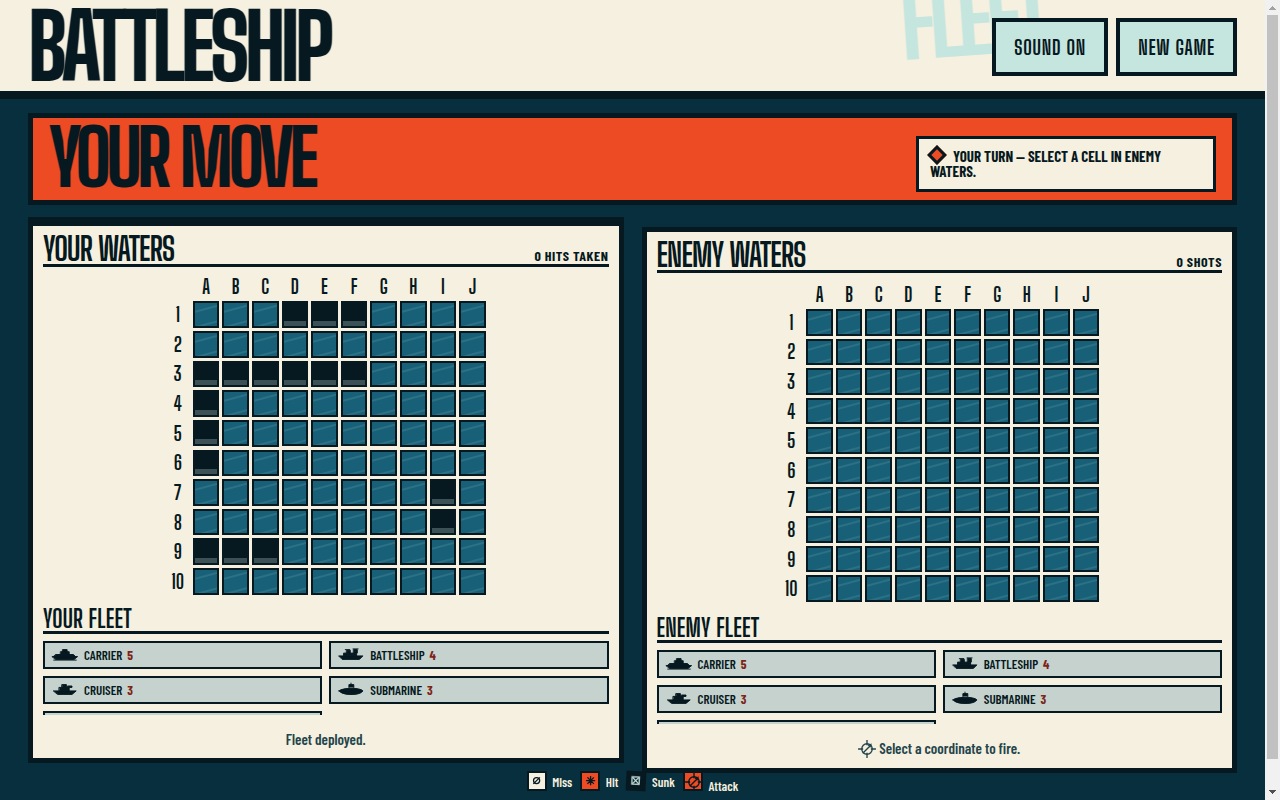
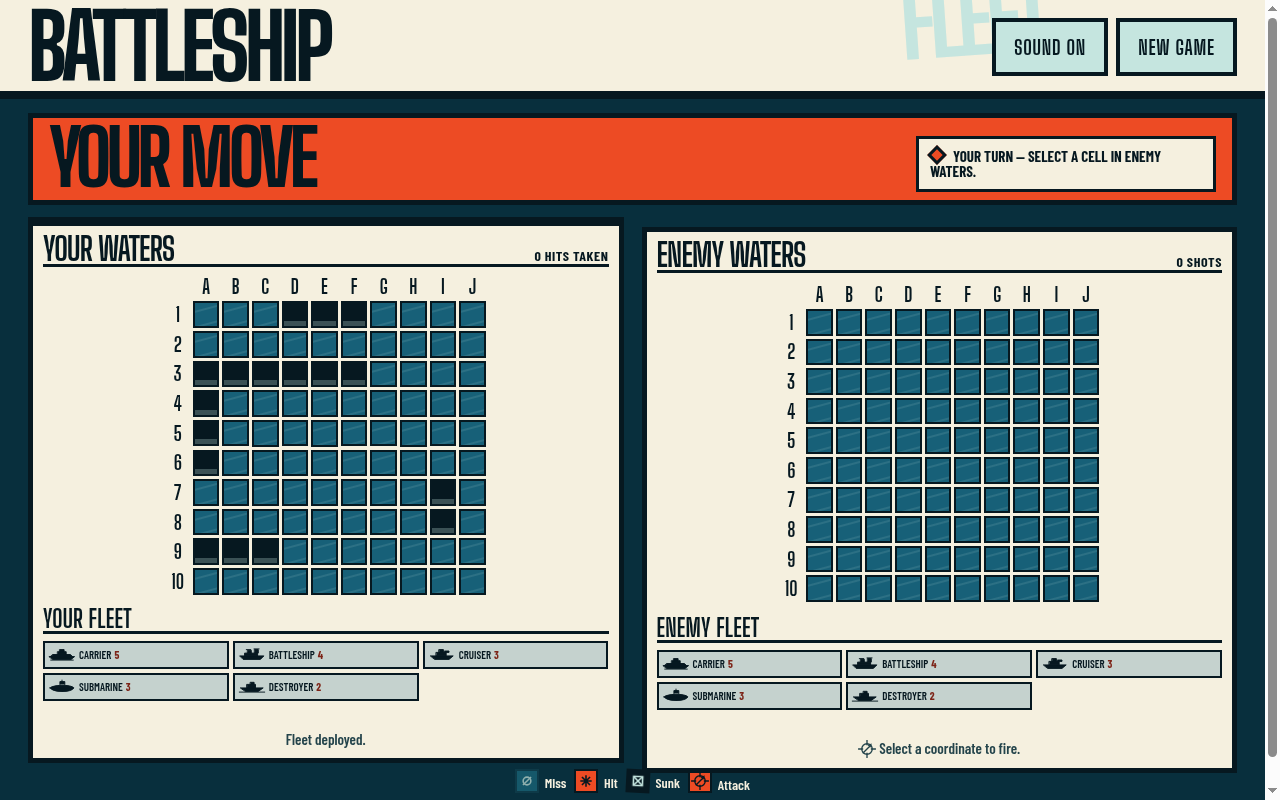
Clarify sea fired-state hierarchy

diff --git a/src/styles.css b/src/styles.css
@@ -12,6 +12,8 @@
   --muted: #24444b;
   --ocean: #082f3d;
   --water: #176078;
+  --water-quiet: #15586a;
+  --water-mark: #8fb0ad;
 }
 
 * {
@@ -311,8 +313,8 @@ kbd {
 
 .fleet-list {
   display: grid;
-  grid-template-columns: repeat(2, minmax(0, 1fr));
-  gap: 7px;
+  grid-template-columns: repeat(3, minmax(0, 1fr));
+  gap: 4px;
   margin-top: 7px;
 }
 
@@ -320,13 +322,13 @@ kbd {
 .fleet-list > button {
   display: inline-flex;
   align-items: center;
-  gap: 5px;
+  gap: 3px;
   min-height: 28px;
-  padding: 3px 6px;
+  padding: 3px;
   border: 2px solid var(--black);
   background: transparent;
   color: var(--black);
-  font-size: 13px;
+  font-size: 11px;
   font-weight: 600;
   min-width: 0;
 }
@@ -351,6 +353,7 @@ kbd {
 
 .fleet-list b {
   color: var(--orange-dark);
+  font-size: 11px;
 }
 
 .fleet-list em {
@@ -572,10 +575,11 @@ kbd {
 
 .cell-miss {
   border-style: solid;
-  background: var(--paper);
+  border-color: rgba(6, 24, 32, 0.45);
+  background: var(--water-quiet);
   background-image: none;
-  color: var(--black);
-  box-shadow: inset 0 0 0 3px var(--black);
+  color: var(--water-mark);
+  box-shadow: inset 0 0 0 1px rgba(197, 229, 223, 0.18);
 }
 
 .cell-mark {
@@ -611,18 +615,18 @@ kbd {
   flex-wrap: wrap;
   margin: 20px 0 0;
   color: var(--paper);
-  font-size: 13px;
+  font-size: 14px;
   font-weight: 600;
 }
 
 .game-content:not(.placement-content) > .legend {
-  margin-top: 8px;
+  margin-top: 6px;
 }
 
 .legend-swatch {
   display: inline-grid;
-  width: 20px;
-  height: 20px;
+  width: 24px;
+  height: 24px;
   margin-right: 3px;
   place-items: center;
   border: 2px solid var(--black);
@@ -637,8 +641,9 @@ kbd {
 
 .legend-miss {
   border-style: solid;
-  background: var(--paper);
-  color: var(--black);
+  border-color: rgba(6, 24, 32, 0.45);
+  background: var(--water-quiet);
+  color: var(--water-mark);
 }
 
 .legend-hit {

diff --git a/DESIGN.md b/DESIGN.md
@@ -25,9 +25,10 @@ active call to action and combat states.
   repeating as a dinghy stamp in every occupied cell.
 - The attack mark is an authored crosshair-and-projectile SVG used in the fire
   invitation, incoming AI beat, and board legend.
-- Fired states stay value-separated on petrol water: bone miss, hot orange hit,
-  and dead ink sunk. The legend mirrors the exact authored marks, and fleet
-  chips use a deliberate two-column/two-row rhythm at narrow rails.
+- Fired states stay value-separated on petrol water: a quiet flattened-water
+  miss, hot orange hit, and dead ink sunk. The legend mirrors the exact
+  authored marks, and fleet chips use a compact three-column/two-row rhythm at
+  narrow rails.
 - Placement uses a compact side rail for fleet controls, legend, and the start
   action so the board pair owns the first desktop viewport.
 - Fleet entries use poster-like ruled rows and strike-through for sunk ships.
